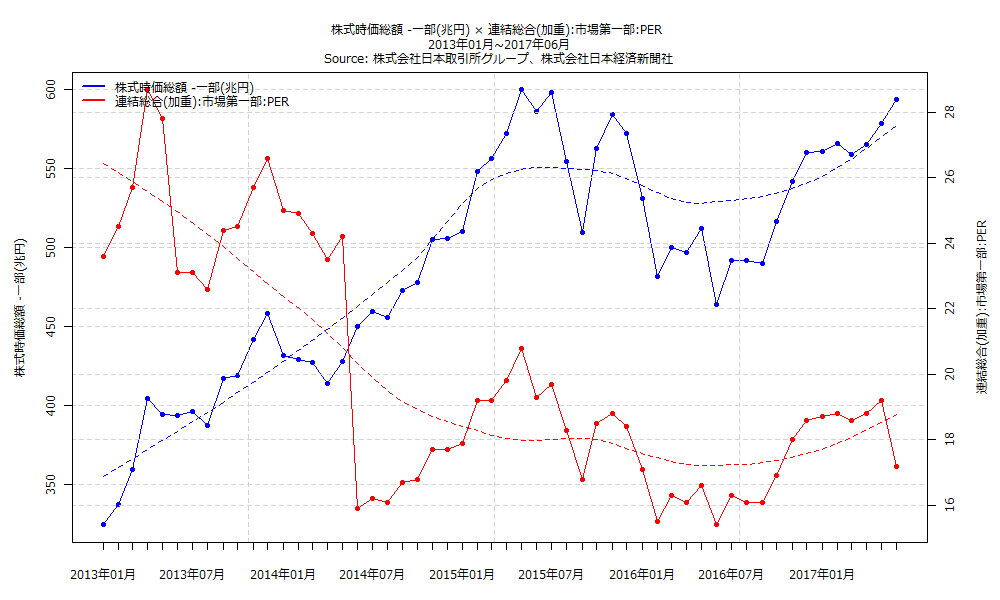
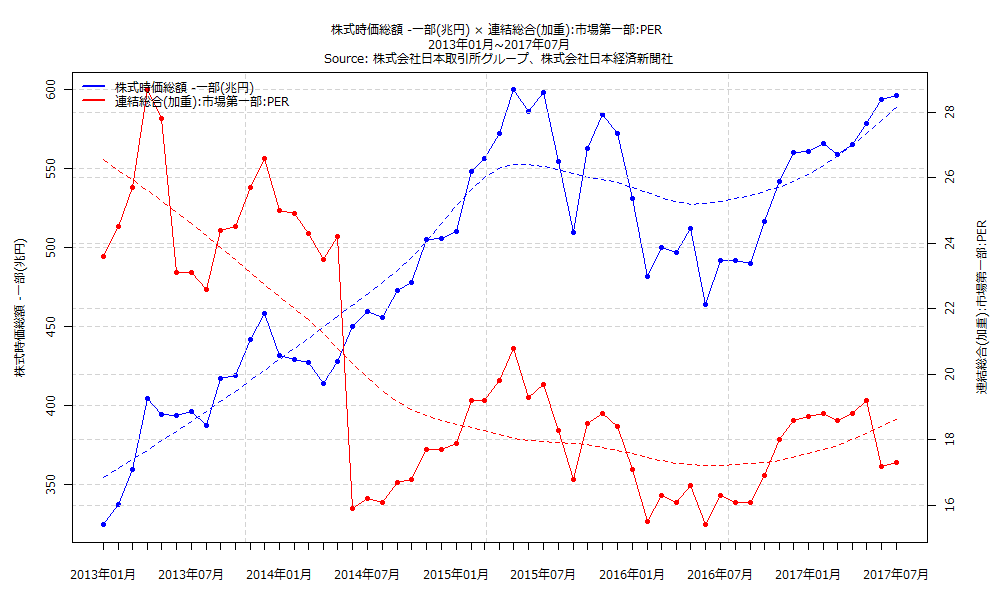
insertheader,selfcontained追記、月次日経平均株価の最終行を除く
insertheader,selfcontained追記、月次日経平均株価の最終行を除く

diff --git a/insertHeader.html b/insertHeader.html
@@ -1,3 +1,8 @@
-
+<meta http-equiv="Pragma" content="no-cache">
+<meta http-equiv="Cache-Control" content="no-cache">
+<meta http-equiv="Expires" content="0">
 <link rel="shortcut icon" href="http://knowledgevault.saecanet.com/charts/indicator/favicon-bar-chart.ico">
-<link rel="stylesheet" href="am-consulting.co.jp-00013_files/style.css" type="text/css" />
+<link href="http://knowledgevault.saecanet.com/components/tableAMCC.css" rel="stylesheet">
+<link href="http://knowledgevault.saecanet.com/components/rmarkdown-html.css" rel="stylesheet">
+<script src="http://knowledgevault.saecanet.com/components/JavascriptCode.js"></script>
+

diff --git a/md/20170802-olive.md b/md/20170802-olive.md
@@ -1,96 +1,139 @@
 
 ---
-tags : [日本銀行, 営業毎旬報告, 国債, 当座預金]
-title : 日本銀行営業毎旬報告(7月31日現在):国債(兆円):431,構成比(%):85.16,当座預金(兆円):363,構成比(%):71.79
+tags : [市場別時価総額,株式平均利回り,PER,PBR,日経平均株価]
+title : 市場別時価総額、株式平均利回り、PER･PBRおよび日経平均株価:2017年07月:株式平均利回り Average Yield -第一部-単純平均利回り　AverageYield:1.63
 published : true
 ---
 
 
-<a href="http://knowledgevault.saecanet.com/charts/chartImages/BankOfJapanAccounts1.png"><img border="0" src="http://knowledgevault.saecanet.com/charts/chartImages/BankOfJapanAccounts1.png" width="100%" /></a>
+<a href="http://knowledgevault.saecanet.com/charts/chartImages/equitySecurities1.png"><img border="0" src="http://knowledgevault.saecanet.com/charts/chartImages/equitySecurities1.png" width="100%" /></a>
+
+
+<a href="http://knowledgevault.saecanet.com/charts/chartImages/equitySecurities2.png"><img border="0" src="http://knowledgevault.saecanet.com/charts/chartImages/equitySecurities2.png" width="100%" /></a>
 
 
 ***
 
 
-#### 資産:営業毎旬報告
+#### 内閣総理大臣毎の基本統計量
 
 
-- 資産:営業毎旬報告
+- 株式平均利回り Average Yield -第一部-有配会社平均利回りAve. Yieldof Div. PayingCos.
 
 
 <table id = 'amcc' width = '100%'>
  <thead>
   <tr>
-   <th style="text-align:left;"> 資産:営業毎旬報告(7月31日現在) </th>
-   <th style="text-align:right;"> 金額(兆円) </th>
-   <th style="text-align:right;"> 構成比(%) </th>
+   <th style="text-align:left;"> Name </th>
+   <th style="text-align:right;"> Min. </th>
+   <th style="text-align:right;"> 1st Qu. </th>
+   <th style="text-align:right;"> Median </th>
+   <th style="text-align:right;"> Mean </th>
+   <th style="text-align:right;"> 3rd Qu. </th>
+   <th style="text-align:right;"> Max. </th>
+   <th style="text-align:left;"> Period </th>
   </tr>
  </thead>
 <tbody>
   <tr>
-   <td style="text-align:left;"> 金地金 </td>
-   <td style="text-align:right;"> 0.4412534 </td>
-   <td style="text-align:right;"> 0.09 </td>
+   <td style="text-align:left;"> 小渕恵三 </td>
+   <td style="text-align:right;"> 0.88 </td>
+   <td style="text-align:right;"> 0.93 </td>
+   <td style="text-align:right;"> 1.02 </td>
+   <td style="text-align:right;"> 1.07 </td>
+   <td style="text-align:right;"> 1.24 </td>
+   <td style="text-align:right;"> 1.36 </td>
+   <td style="text-align:left;"> 1998年08月~2000年04月 </td>
   </tr>
   <tr>
-   <td style="text-align:left;"> 現金 </td>
-   <td style="text-align:right;"> 0.2289782 </td>
-   <td style="text-align:right;"> 0.05 </td>
+   <td style="text-align:left;"> 森喜朗(1-2) </td>
+   <td style="text-align:right;"> 0.88 </td>
+   <td style="text-align:right;"> 1 </td>
+   <td style="text-align:right;"> 1.08 </td>
+   <td style="text-align:right;"> 1.06 </td>
+   <td style="text-align:right;"> 1.14 </td>
+   <td style="text-align:right;"> 1.19 </td>
+   <td style="text-align:left;"> 2000年05月~2001年04月 </td>
   </tr>
   <tr>
-   <td style="text-align:left;"> 国債 </td>
-   <td style="text-align:right;"> 430.5105674 </td>
-   <td style="text-align:right;"> 85.16 </td>
+   <td style="text-align:left;"> 小泉純一郎(1-3) </td>
+   <td style="text-align:right;"> 0.9 </td>
+   <td style="text-align:right;"> 1.15 </td>
+   <td style="text-align:right;"> 1.26 </td>
+   <td style="text-align:right;"> 1.25 </td>
+   <td style="text-align:right;"> 1.37 </td>
+   <td style="text-align:right;"> 1.59 </td>
+   <td style="text-align:left;"> 2001年05月~2006年09月 </td>
   </tr>
   <tr>
-   <td style="text-align:left;"> コマーシャル・ペーパー等 </td>
-   <td style="text-align:right;"> 2.3829194 </td>
-   <td style="text-align:right;"> 0.47 </td>
+   <td style="text-align:left;"> 安倍晋三(1) </td>
+   <td style="text-align:right;"> 1.15 </td>
+   <td style="text-align:right;"> 1.18 </td>
+   <td style="text-align:right;"> 1.21 </td>
+   <td style="text-align:right;"> 1.23 </td>
+   <td style="text-align:right;"> 1.26 </td>
+   <td style="text-align:right;"> 1.38 </td>
+   <td style="text-align:left;"> 2006年10月~2007年09月 </td>
   </tr>
   <tr>
-   <td style="text-align:left;"> 社債 </td>
-   <td style="text-align:right;"> 3.2084187 </td>
-   <td style="text-align:right;"> 0.63 </td>
+   <td style="text-align:left;"> 福田康夫 </td>
+   <td style="text-align:right;"> 1.38 </td>
+   <td style="text-align:right;"> 1.61 </td>
+   <td style="text-align:right;"> 1.71 </td>
+   <td style="text-align:right;"> 1.72 </td>
+   <td style="text-align:right;"> 1.82 </td>
+   <td style="text-align:right;"> 2.16 </td>
+   <td style="text-align:left;"> 2007年10月~2008年09月 </td>
   </tr>
   <tr>
-   <td style="text-align:left;"> 金銭の信託（信託財産株式） </td>
-   <td style="text-align:right;"> 1.1185583 </td>
-   <td style="text-align:right;"> 0.22 </td>
+   <td style="text-align:left;"> 麻生太郎 </td>
+   <td style="text-align:right;"> 1.94 </td>
+   <td style="text-align:right;"> 2.02 </td>
+   <td style="text-align:right;"> 2.52 </td>
+   <td style="text-align:right;"> 2.4 </td>
+   <td style="text-align:right;"> 2.62 </td>
+   <td style="text-align:right;"> 2.8 </td>
+   <td style="text-align:left;"> 2008年10月~2009年09月 </td>
   </tr>
   <tr>
-   <td style="text-align:left;"> 金銭の信託（信託財産指数連動型上場投資信託） </td>
-   <td style="text-align:right;"> 14.6995985 </td>
-   <td style="text-align:right;"> 2.91 </td>
+   <td style="text-align:left;"> 鳩山由紀夫 </td>
+   <td style="text-align:right;"> 1.87 </td>
+   <td style="text-align:right;"> 1.97 </td>
+   <td style="text-align:right;"> 2.08 </td>
+   <td style="text-align:right;"> 2.05 </td>
+   <td style="text-align:right;"> 2.11 </td>
+   <td style="text-align:right;"> 2.25 </td>
+   <td style="text-align:left;"> 2009年10月~2010年06月 </td>
   </tr>
   <tr>
-   <td style="text-align:left;"> 金銭の信託（信託財産不動産投資信託） </td>
-   <td style="text-align:right;"> 0.4119414 </td>
-   <td style="text-align:right;"> 0.08 </td>
+   <td style="text-align:left;"> 菅直人 </td>
+   <td style="text-align:right;"> 1.86 </td>
+   <td style="text-align:right;"> 1.98 </td>
+   <td style="text-align:right;"> 2.08 </td>
+   <td style="text-align:right;"> 2.06 </td>
+   <td style="text-align:right;"> 2.15 </td>
+   <td style="text-align:right;"> 2.22 </td>
+   <td style="text-align:left;"> 2010年07月~2011年09月 </td>
   </tr>
   <tr>
-   <td style="text-align:left;"> 貸付金 </td>
-   <td style="text-align:right;"> 45.244329 </td>
-   <td style="text-align:right;"> 8.95 </td>
+   <td style="text-align:left;"> 野田佳彦 </td>
+   <td style="text-align:right;"> 2.02 </td>
+   <td style="text-align:right;"> 2.17 </td>
+   <td style="text-align:right;"> 2.26 </td>
+   <td style="text-align:right;"> 2.25 </td>
+   <td style="text-align:right;"> 2.33 </td>
+   <td style="text-align:right;"> 2.42 </td>
+   <td style="text-align:left;"> 2011年10月~2012年12月 </td>
   </tr>
   <tr>
-   <td style="text-align:left;"> 外国為替 </td>
-   <td style="text-align:right;"> 6.6200751 </td>
-   <td style="text-align:right;"> 1.31 </td>
-  </tr>
-  <tr>
-   <td style="text-align:left;"> 代理店勘定 </td>
-   <td style="text-align:right;"> 0.0105369 </td>
-   <td style="text-align:right;"> 0 </td>
-  </tr>
-  <tr>
-   <td style="text-align:left;"> 雑勘定 </td>
-   <td style="text-align:right;"> 0.6830756 </td>
-   <td style="text-align:right;"> 0.14 </td>
-  </tr>
-  <tr>
-   <td style="text-align:left;"> 合計 </td>
-   <td style="text-align:right;"> 505.560252 </td>
-   <td style="text-align:right;"> 100 </td>
+   <td style="text-align:left;"> 安倍晋三(2,3) </td>
+   <td style="text-align:right;"> 1.42 </td>
+   <td style="text-align:right;"> 1.56 </td>
+   <td style="text-align:right;"> 1.68 </td>
+   <td style="text-align:right;"> 1.67 </td>
+   <td style="text-align:right;"> 1.75 </td>
+   <td style="text-align:right;"> 2.01 </td>
+   <td style="text-align:left;"> 2013年01月~2017年07月 </td>
   </tr>
 </tbody>
 </table>
@@ -98,7 +141,7 @@ published : true
 ## データテーブル･チャート
 
 
-Link : [データテーブル･チャート](http://knowledgevault.saecanet.com/charts/am-consulting.co.jp-BankOfJapanAccounts.html)
+Link : [データテーブル･チャート](http://knowledgevault.saecanet.com/charts/am-consulting.co.jp-equitySecurities.html)
 
 
-<iframe src="http://knowledgevault.saecanet.com/charts/am-consulting.co.jp-BankOfJapanAccounts.html" width="100%" height="800px"></iframe>
+<iframe src="http://knowledgevault.saecanet.com/charts/am-consulting.co.jp-equitySecurities.html" width="100%" height="800px"></iframe>
